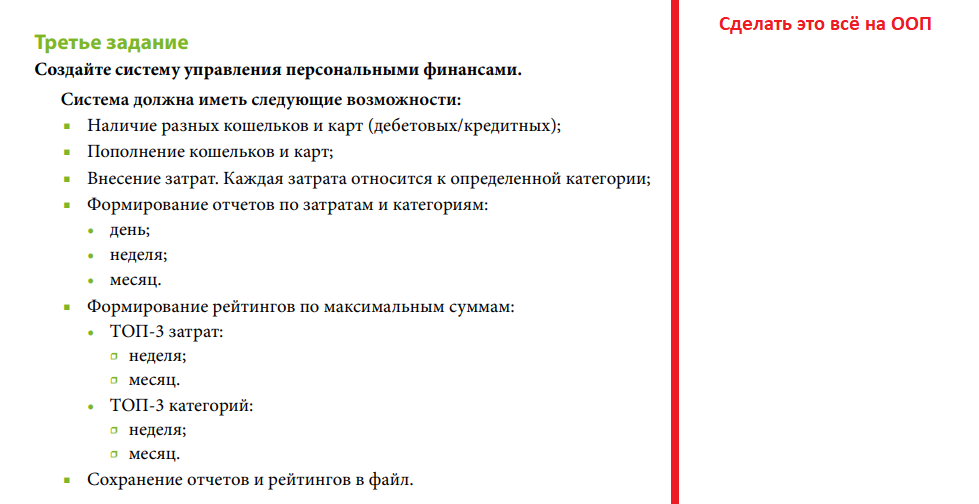
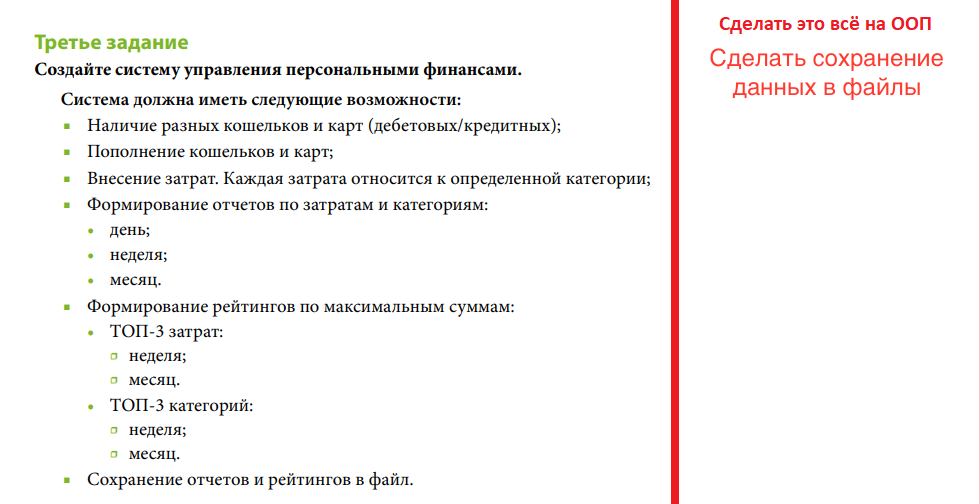
TODO files
set TODO tasks, created a new file with user data

Changed region(s): [[0.7048, 0.0893, 0.9806, 0.2083]]

diff --git a/ConsoleApplication1/ConsoleApplication1/ConsoleApplication1.cpp b/ConsoleApplication1/ConsoleApplication1/ConsoleApplication1.cpp
@@ -1,7 +1,6 @@
 #include <iostream>
-#include <windows.h>
+//#include <windows.h>
 #include <fstream>
-#include <sys/stat.h>
 #include "User.h"
 using namespace std;
 
@@ -65,29 +64,30 @@ bool is_file_exist(string fileName)
 
 void localizated() {
     setlocale(LC_ALL, "");
-    SetConsoleCP(1251);
+    //SetConsoleCP(1251);
 }
 int main() {
     ofstream file;
-    
+    file.open("Data.txt")
     localizated();
 
     User MainUser; 
     {
-        bool file1 = is_file_exist("data.txt");
-        if (file1 == false) {
-            file.open("data.txt");
+        bool fileUser = is_file_exist("UserData.txt");
+
+        if (fileUser == false) {
+            file.open("UserData.txt");
             MainUser.SetInfo();
         }
-            
         else {
-            cout << "В будущем тут я подтяну данные пользователя" << endl;
+            //TODO сделать взятие данных пользователя из файла
         }
+        fileUser.close();
     }//проверка на существование файла
 
 
     
-    system("cls");
+    //system("cls");
     cout << "Name: " << MainUser.GetName() << endl << "Surname: " << MainUser.GetSurname() << endl;
     int choise{ 0 };
     while (choise != 6) {
@@ -95,6 +95,12 @@ int main() {
         if (choise != 6)
             DoActions(MainUser, choise);
     }
+    //TODO сделать сохранение в User и data файлы
     file.close();
     return 0;
 }
+
+
+
+
+//TODO сделать нормальную локализацию под мак и винду
